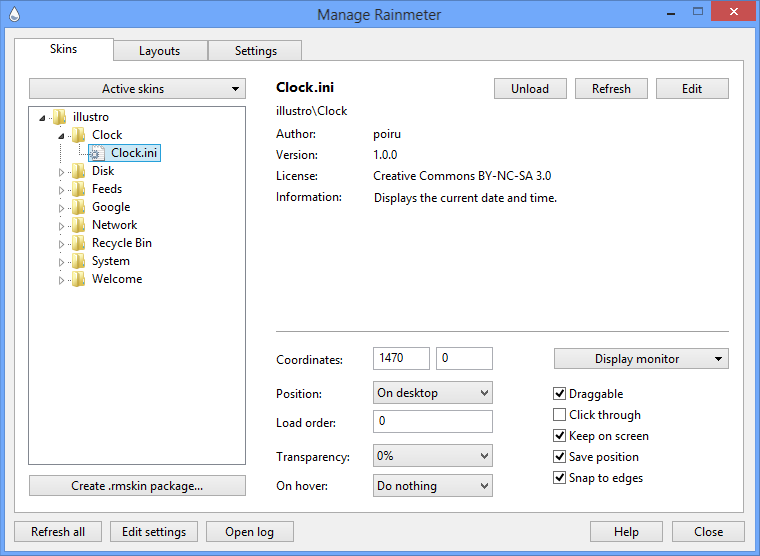
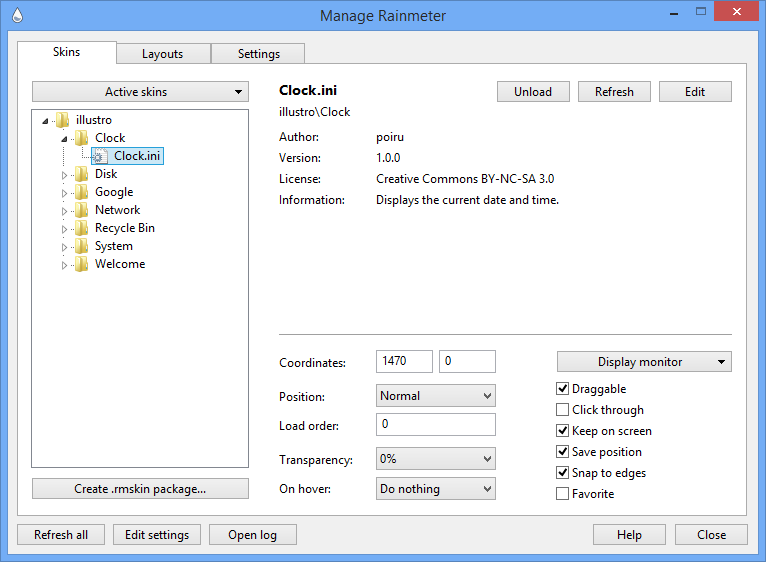
Added "Favorite" functionality to the beta manual.

diff --git a/source/manual-beta/user-interface/context-menus.html b/source/manual-beta/user-interface/context-menus.html
@@ -23,6 +23,7 @@ title: 'Context Menus'
 <li><b>About</b>: Loads the <a href="!user-interface/about">About</a> window.</li>
 <li><b>Help</b>: Opens the Rainmeter <a href="/">documentation</a> site in the default web browser.</li>
 <li><b>Skins</b>: Displays a list of all <a href="!skins#FilesFolders">skins</a> found when Rainmeter was started or refreshed. The list consists of the <a href="!skins#Config">config</a> folder for each skin, which expand to the skin .ini files in each. Clicking on a .ini file will load the skin in Rainmeter.</li>
+<li><b>Favorites</b>: Displays a list of skins that have been defined as a "Favorite" in either the skin's settings in <a href="!user-interface/manage/#SkinSettings">Manage</a> or the skin's <a href="!user-interface/context-menus/#GeneralSettings">context menu</a> under Settings. If you have a large collection of skins in Rainmeter, this can be helpful for quickly finding and loading skins without having to use the entire Skins list.</li>
 <li><b>Layouts</b>: Displays a list of saved <a href="!user-interface/manage#LayoutsTab">layouts</a>. Clicking on one will load that layout in Rainmeter.</li>
 <li><b>Edit settings</b>: Manually edit the settings in Rainmeter.ini with the text editor associated with .ini files.</li>
 <li><b>Refresh all</b>: Refresh the entire Rainmeter application, including all currently active skins.</li>
@@ -105,4 +106,5 @@ title: 'Context Menus'
 <li><b>Click through</b>: The <a href="!settings/skin-sections#ClickThrough">click through</a> setting for the skin.</li>
 <li><b>Keep on screen</b>: The <a href="!settings/skin-sections#KeepOnScreen">keep on screen</a> setting for the skin.</li>
 <li><b>Use D2D rendering</b>: The <a href="!settings/skin-sections#UseD2D">UseD2D</a> setting for the skin.</li>
+<li><b>Favorite</b>: Adds or removes the current skin in a list of <a href="!user-interface/context-menus/#RainmeterContextMenus">Favorites</a> accessed with the Rainmeter context menu.</li>
 </ul>

diff --git a/source/manual-beta/user-interface/manage.html b/source/manual-beta/user-interface/manage.html
@@ -97,7 +97,8 @@ title: 'Manage'
 <li><b>Click through</b>: The <a href="!settings/skin-sections#ClickThrough">click through</a> setting for the skin.</li>
 <li><b>Keep on screen</b>: The <a href="!settings/skin-sections#KeepOnScreen">keep on screen</a> setting for the skin.</li>
 <li><b>Save position</b>: The <a href="!settings/skin-sections#SavePosition">save position</a> setting for the skin.</li>
-<li><b>Snap to edges</b>: The <a href="!settings/skin-sections#SnapEdges">snap to edges</a> setting for the skin.</li><br>
+<li><b>Snap to edges</b>: The <a href="!settings/skin-sections#SnapEdges">snap to edges</a> setting for the skin.</li>
+<li><b>Favorite</b>: Adds or removes the current skin in a list of <a href="!user-interface/context-menus/#RainmeterContextMenus">Favorites</a> accessed with the Rainmeter context menu.</li><br>
 <li id="Monitors"><b>Display monitor</b>: Settings for the monitor on which the skin is displayed.<br><br>
 	<b>Use default: Primary monitor</b>: Removes the <code>@<em>N</em></code> directive from <a href="!settings/skin-sections#WindowXY">WindowX/WindowY</a> settings.<br>
 	<b>@0, @1, @2, ... , @32</b>: Adds the specified monitor number to WindowX/WindowY settings. <code>@0</code> represents <a href="http://msdn.microsoft.com/en-us/library/dd145136%28VS.85%29.aspx">"The Virtual Screen"</a>.<br>
